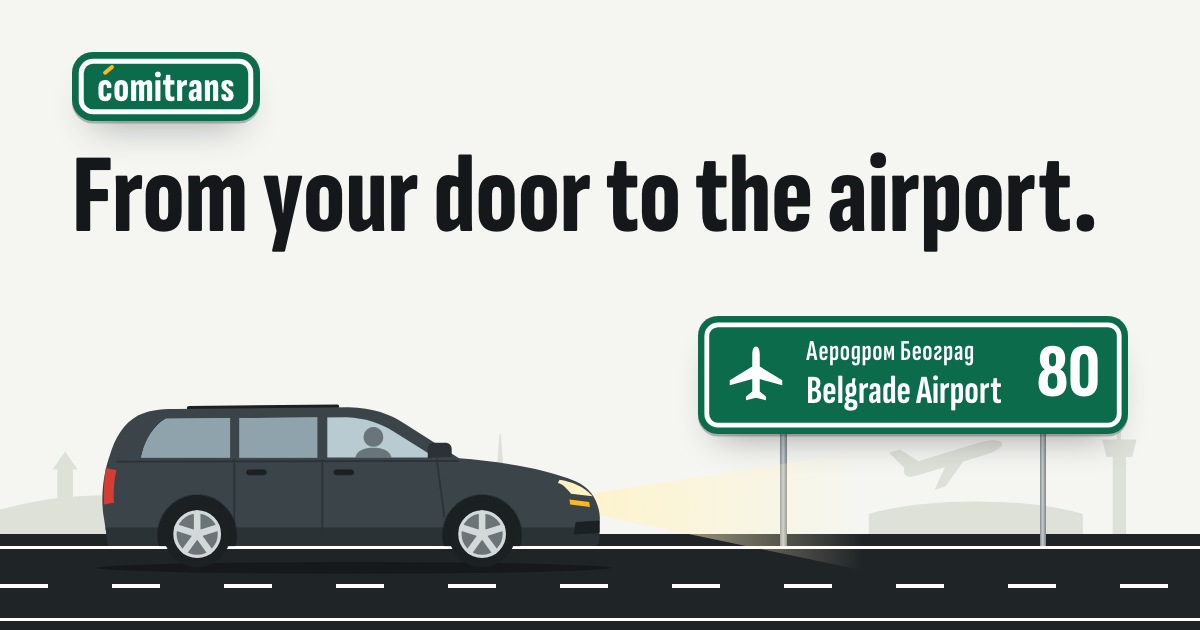
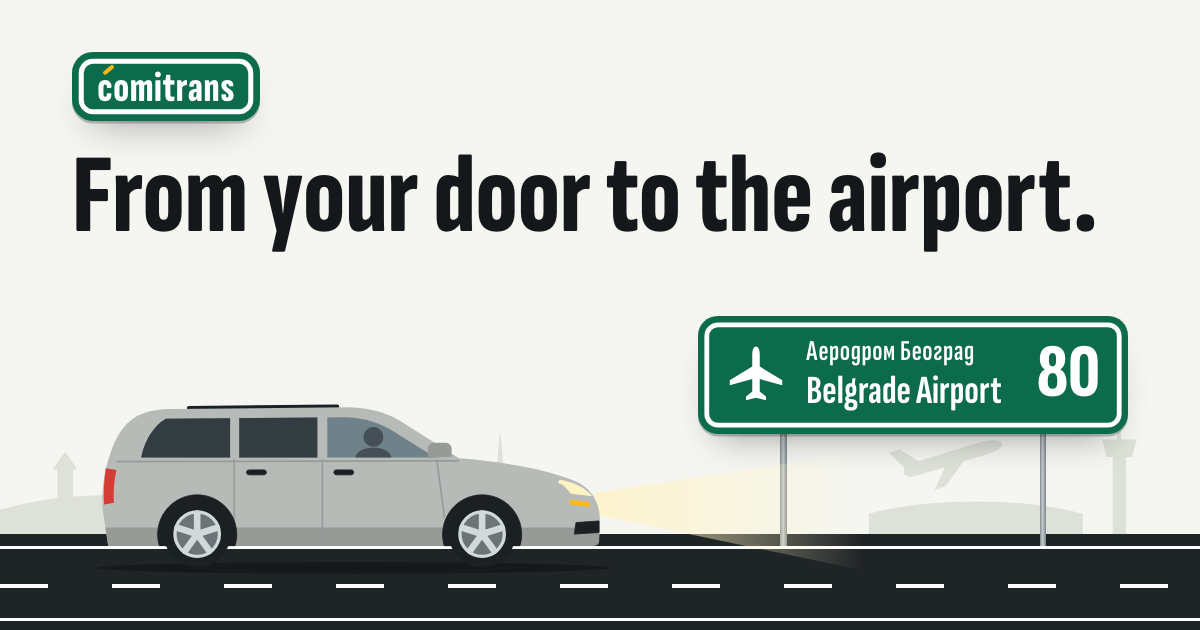
Paint the drawn Galaxy silver, like the real one

Changed region(s): [[0.0617, 0.6333, 0.5242, 0.8746]]

diff --git a/public/css/05-hero.css b/public/css/05-hero.css
@@ -180,10 +180,10 @@
 }
 
 .vehicle {
-  --body: #3b4449;
-  --body-shade: #2a3236;
-  --glass: #b7cbd1;
-  --glass-shade: #8ea3ab;
+  --body: #b7bbb8;
+  --body-shade: #969b98;
+  --glass: #6f8189;
+  --glass-shade: #333c40;
   --trim: #1b2023;
   --rim: #d3d8da;
   width: 100%;
